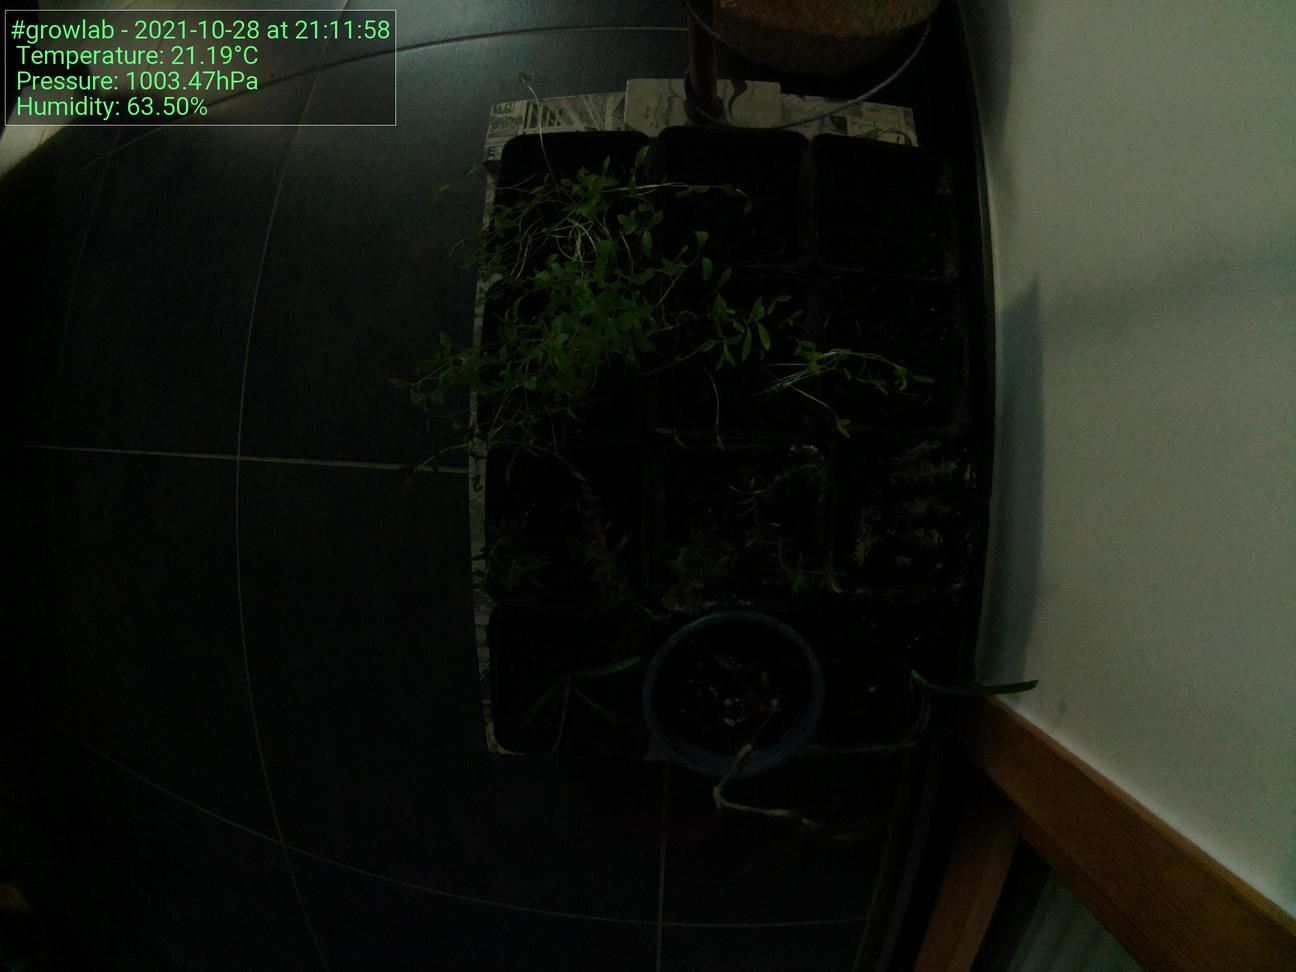
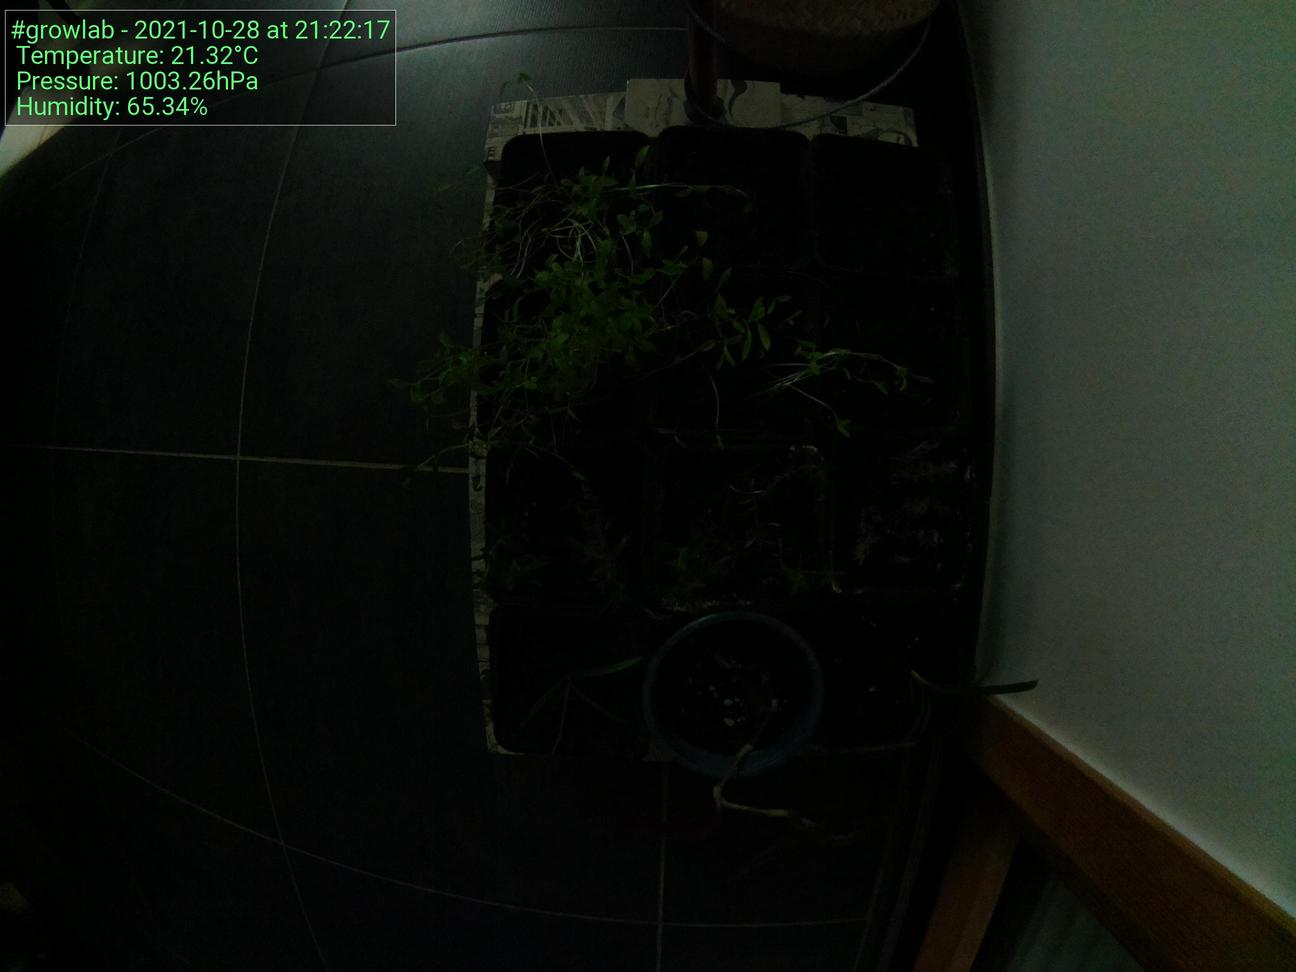
Update images at Thu 28 Oct 21:22:26 CEST 2021

diff --git a/docs/index.html b/docs/index.html
@@ -52,19 +52,19 @@
                             </tr>
                             <tr>
                                 <td>Time</td>
-                                <td>21:11:58</td>
+                                <td>21:22:17</td>
                             </tr>
                             <tr>
                                 <td>Temperature</td>
-                                <td>21.19°C</td>
+                                <td>21.32°C</td>
                             </tr>
                             <tr>
                                 <td>Humidity</td>
-                                <td>63.50%</td>
+                                <td>65.34%</td>
                             </tr>
                             <tr>
                                 <td>Pressure</td>
-                                <td>1003.47hPa</td>
+                                <td>1003.26hPa</td>
                             </tr>
                         </tbody>
                     </table>
@@ -72,7 +72,7 @@
 
                 <h5>Latest image</h5>
                 <div style="width: 85%;">
-                            <img class="figure-img img-fluid rounded" src="./preview.jpg?uid=1635448332.0791929">
+                            <img class="figure-img img-fluid rounded" src="./preview.jpg?uid=1635448945.8960202">
                 </div>
             </div>
         </div>
